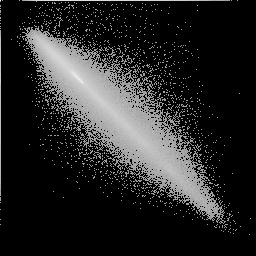
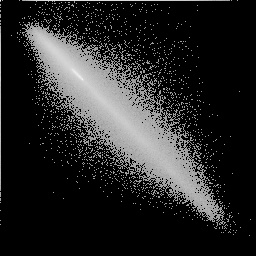
normalise

diff --git a/image_register.py b/image_register.py
@@ -29,9 +29,13 @@ def readAndRescale(img1, img2, scale):
     width = int(target.shape[1] * scale)
     height = int(source.shape[0] * scale)
     dim = (width, height)
+    print(f"resizing input images to dim: {dim}")
 
     target_s = cv2.resize(target, dim, interpolation=cv2.INTER_AREA)
     source_s = cv2.resize(source, dim, interpolation=cv2.INTER_AREA)
+
+    target_s = cv2.normalize(target_s, target_s, 0, 255, cv2.NORM_MINMAX) # require normalised hist for SIFT
+    source_s = cv2.normalize(source_s, source_s, 0, 255, cv2.NORM_MINMAX)
 
     # cv2.cvtColor() method is used to convert an image from one color space to another, here 3 band to 1 band
     gray1 = cv2.cvtColor(target_s, cv2.COLOR_BGR2GRAY)
@@ -49,11 +53,11 @@ def getKeypointAndDescriptors(target_gray, source_gray):
     target_gray, source_gray: grayscaled target and source images as np.ndarray
     """
     sift = cv2.SIFT_create()
-    kp1, des1 = sift.detectAndCompute(target_gray, None)
+    kp1, des1 = sift.detectAndCompute(target_gray.astype('uint8'), None)
     pts1 = np.array([kp1[idx].pt for idx in range(len(kp1))])
     print(f"len(pts1): {len(pts1)}")
 
-    kp2, des2 = sift.detectAndCompute(source_gray, None)
+    kp2, des2 = sift.detectAndCompute(source_gray.astype('uint8'), None)
     pts2 = np.array([kp2[idx].pt for idx in range(len(kp2))])
     print(f"len(pts2): {len(pts2)}")
 
